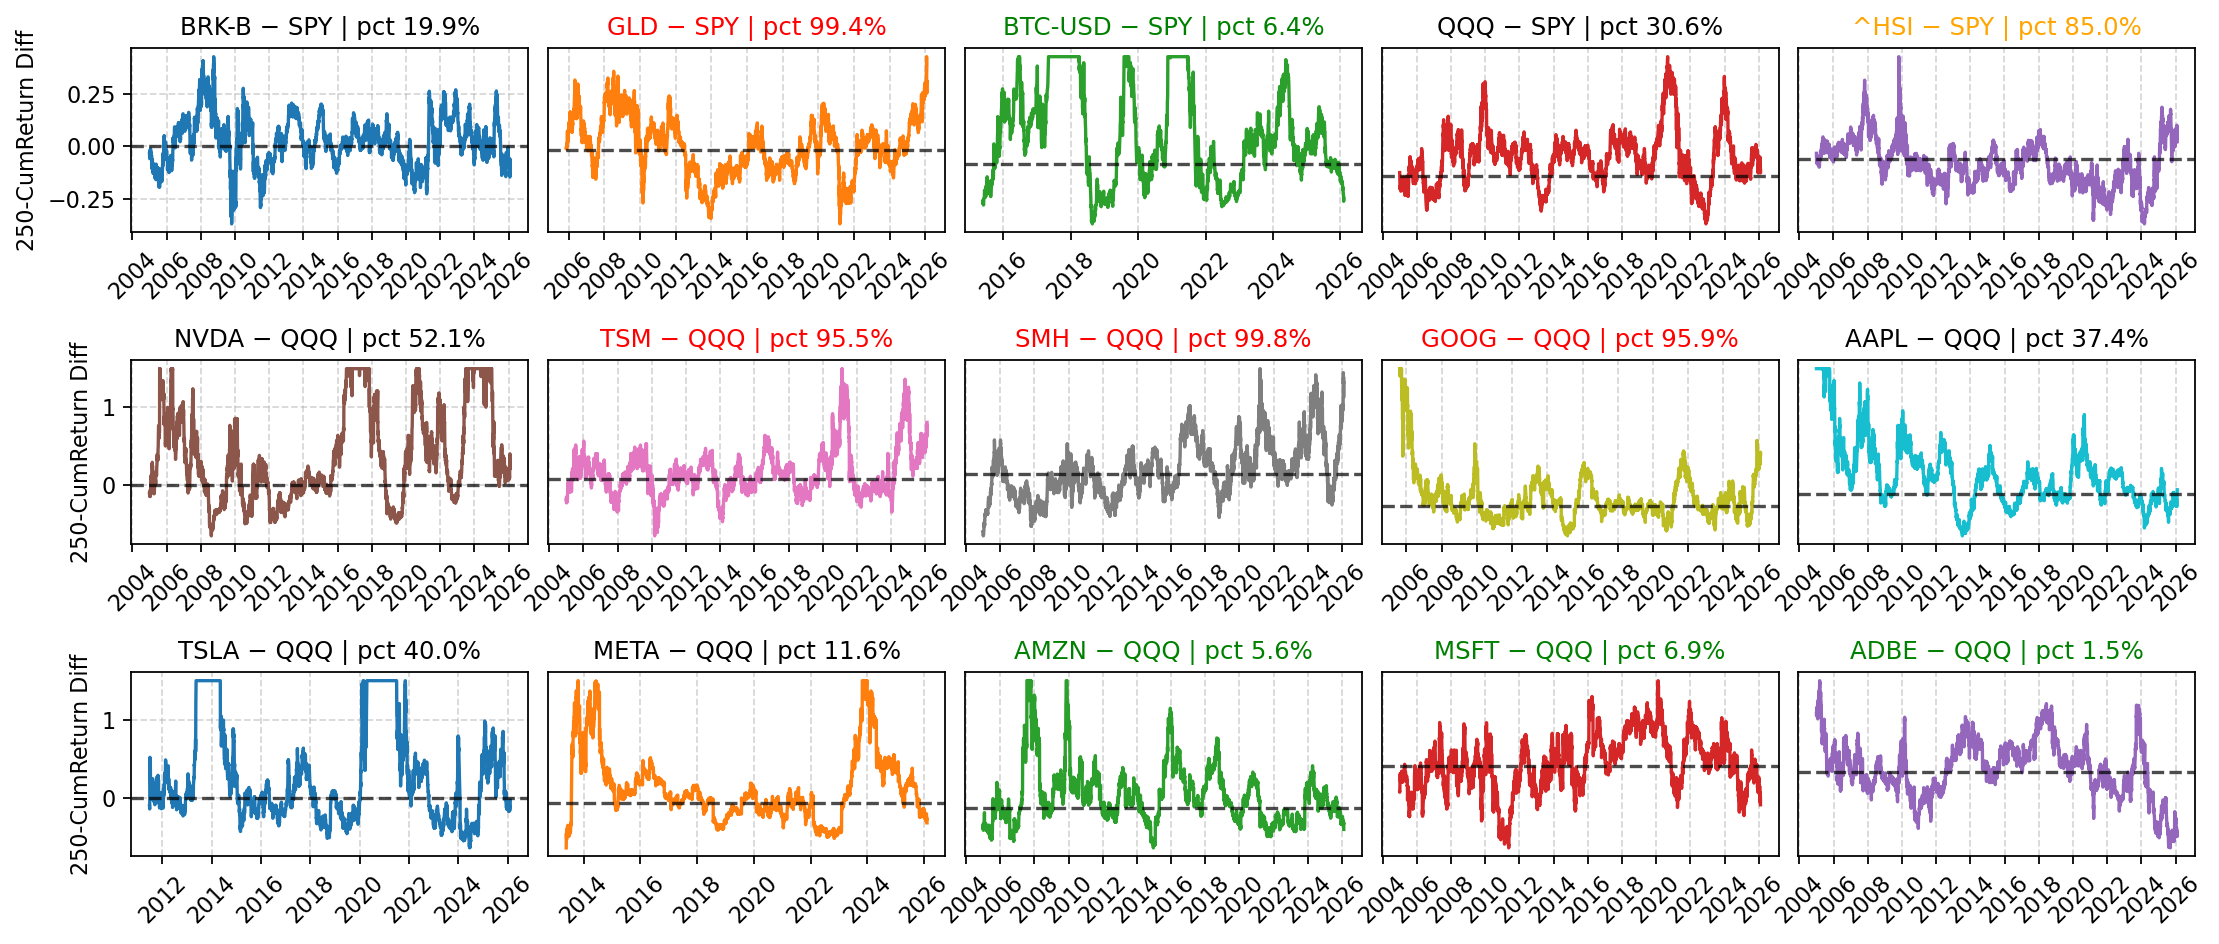
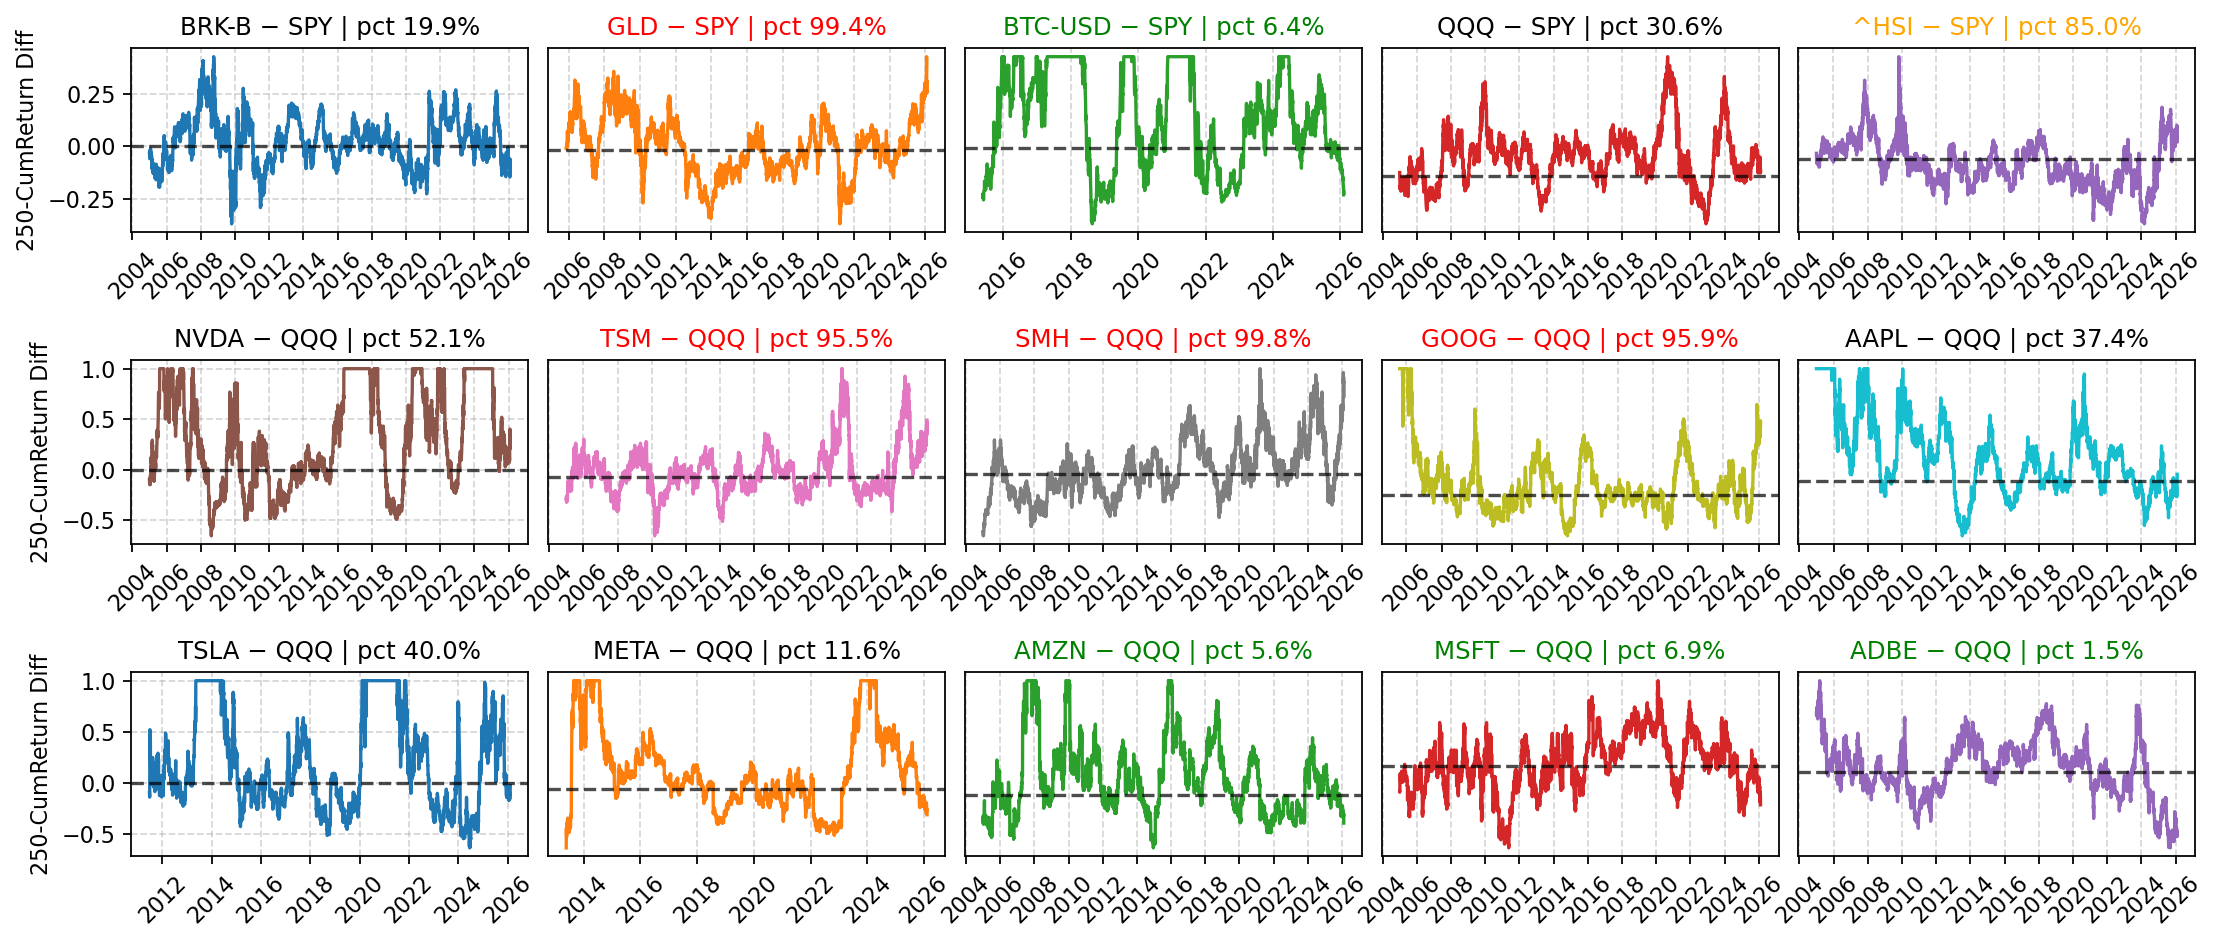
.

diff --git a/docs/index.html b/docs/index.html
@@ -12,7 +12,7 @@
 </head>
 <body>
   <h1>Rolling Pair Diffs (250-day)</h1>
-  <div class="meta">Last updated: 2026-02-08 16:14 UTC</div>
+  <div class="meta">Last updated: 2026-02-08 16:22 UTC</div>
   <p><img src="rolling_pairs.png" alt="rolling pairs figure"></p>
   <div class="note">
     Data via <code>yfinance</code>. Figure regenerates daily via GitHub Actions.

diff --git a/auto_macro_pair_monitor.py b/auto_macro_pair_monitor.py
@@ -109,7 +109,7 @@ def main():
         # BTC-only clip (no default clip for others)
         for truncate_sym in ['BTC', 'NVDA', 'TQQQ', 'TSLA', 'AMZN', 'AAPL', 'META', 'GOOG', 'MSFT', 'ADBE', 'SMH', 'TSM', 'QQQ']:
             if truncate_sym in TARGET:
-                diff = diff.clip(-1.5, 1.5)
+                diff = diff.clip(-1, 1)
 
         latest_diff = float(diff.iloc[-1])
         latest_pct = percentile_rank(diff.values, latest_diff)
